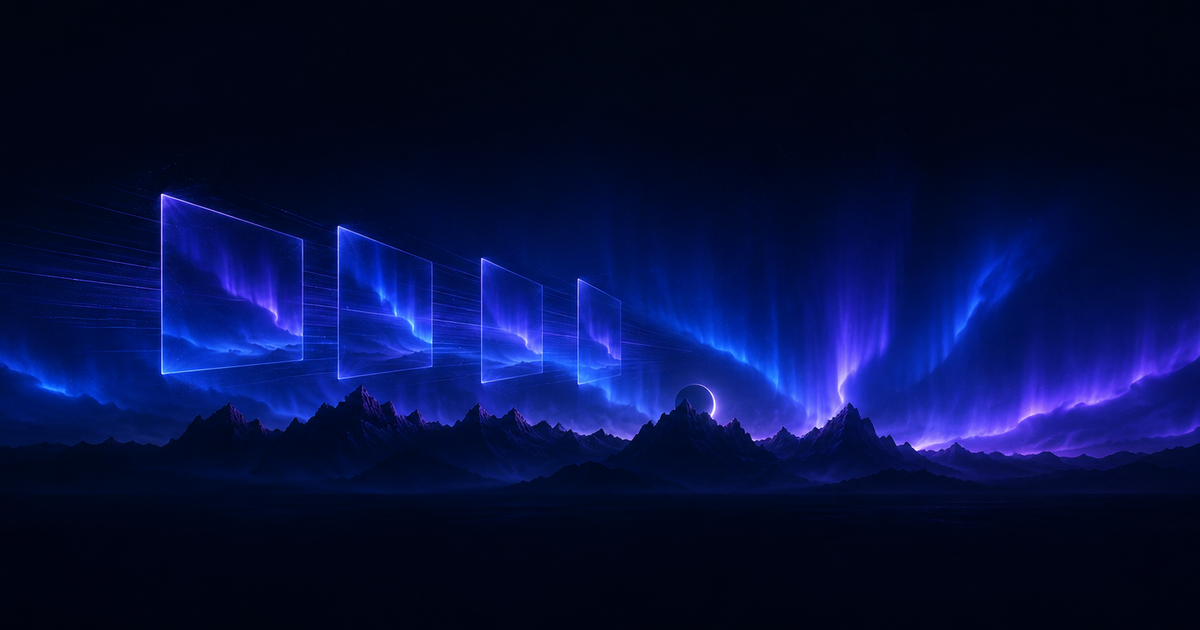
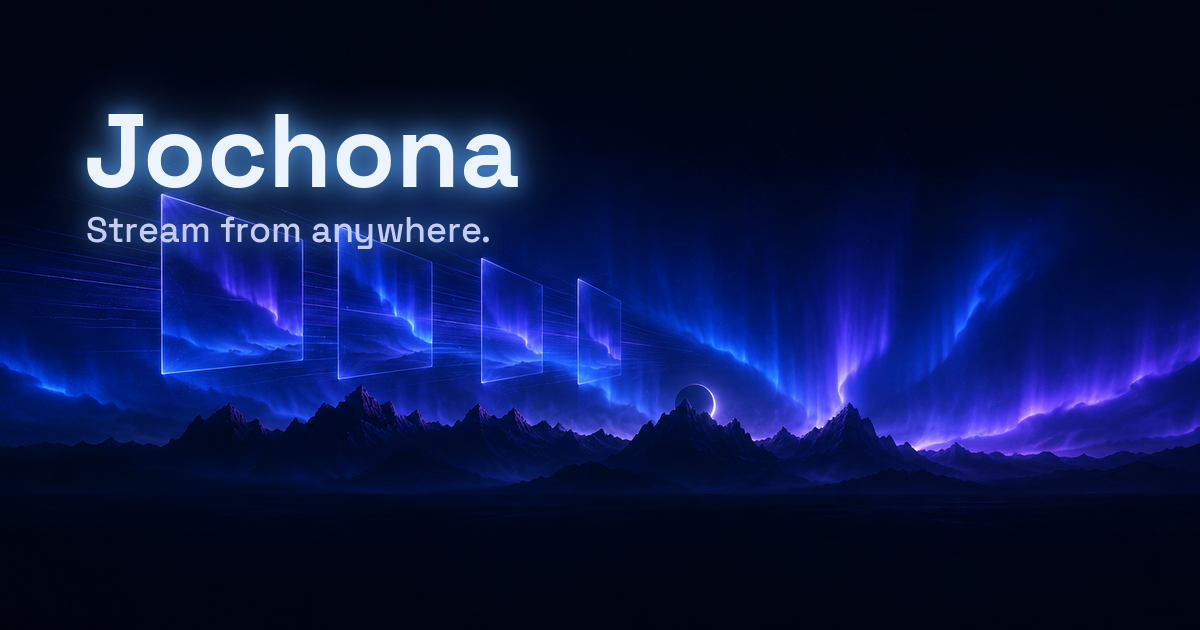
Brand: typeset social preview lockup in Space Grotesk (wordmark + tagline)
Hero master stays text-free; the generator composes Jochona +
'Stream from anywhere.' with neon glow onto the 1200x630 output so
copy changes never require regenerating artwork.

Changed region(s): [[0.0617, 0.1508, 0.4625, 0.4222]]

diff --git a/scripts/generate-brand-assets.py b/scripts/generate-brand-assets.py
@@ -23,7 +23,7 @@ import subprocess
 import sys
 import tempfile
 
-from PIL import Image
+from PIL import Image, ImageDraw, ImageFilter, ImageFont
 
 ROOT = os.path.dirname(os.path.dirname(os.path.abspath(__file__)))
 BRAND = os.path.join(ROOT, "assets", "brand")
@@ -77,7 +77,9 @@ def main():
     # --- WiX bootstrap logo (square, burned into installer UI) ---
     save(icon.resize((64, 64), Image.LANCZOS), "app/jochona-wix.png")
 
-    # --- GitHub social preview: center-crop hero to 1200x630 ---
+    # --- GitHub social preview: crop hero to 1200x630, typeset brand lockup ---
+    # The hero master stays text-free; the wordmark + tagline are composed here
+    # with the brand fonts so they can change without touching the artwork.
     hero = master("hero-wide.png").convert("RGB")
     target_ratio = 1200 / 630
     w, h = hero.size
@@ -87,7 +89,27 @@ def main():
     else:
         new_h = int(w / target_ratio)
         hero = hero.crop((0, (h - new_h) // 2, w, (h + new_h) // 2))
-    save(hero.resize((1200, 630), Image.LANCZOS), "docs/assets/github-social.png")
+    hero = hero.resize((1200, 630), Image.LANCZOS)
+
+    def font(weight, size):
+        path = os.path.join(ROOT, "app", "fonts", f"SpaceGrotesk-{weight}.ttf")
+        return ImageFont.truetype(path, size)
+
+    title_font, tag_font = font("Bold", 104), font("Medium", 36)
+    title, tagline = "Jochona", "Stream from anywhere."
+    tx, ty = 84, 84
+    # neon glow: blurred white text layers composited under the crisp glyphs
+    glow = Image.new("L", hero.size, 0)
+    ImageDraw.Draw(glow).text((tx, ty), title, font=title_font, fill=255)
+    ImageDraw.Draw(glow).text((tx + 2, ty + 122), tagline, font=tag_font, fill=200)
+    for radius, strength in ((24, 0.9), (10, 0.8)):
+        halo = glow.filter(ImageFilter.GaussianBlur(radius))
+        tint = Image.new("RGB", hero.size, (90, 170, 255))
+        hero = Image.composite(tint, hero, halo.point(lambda p: int(p * strength)))
+    draw = ImageDraw.Draw(hero)
+    draw.text((tx, ty), title, font=title_font, fill=(235, 244, 255))
+    draw.text((tx + 2, ty + 122), tagline, font=tag_font, fill=(199, 205, 242))
+    save(hero, "docs/assets/github-social.png")
 
 
 if __name__ == "__main__":
